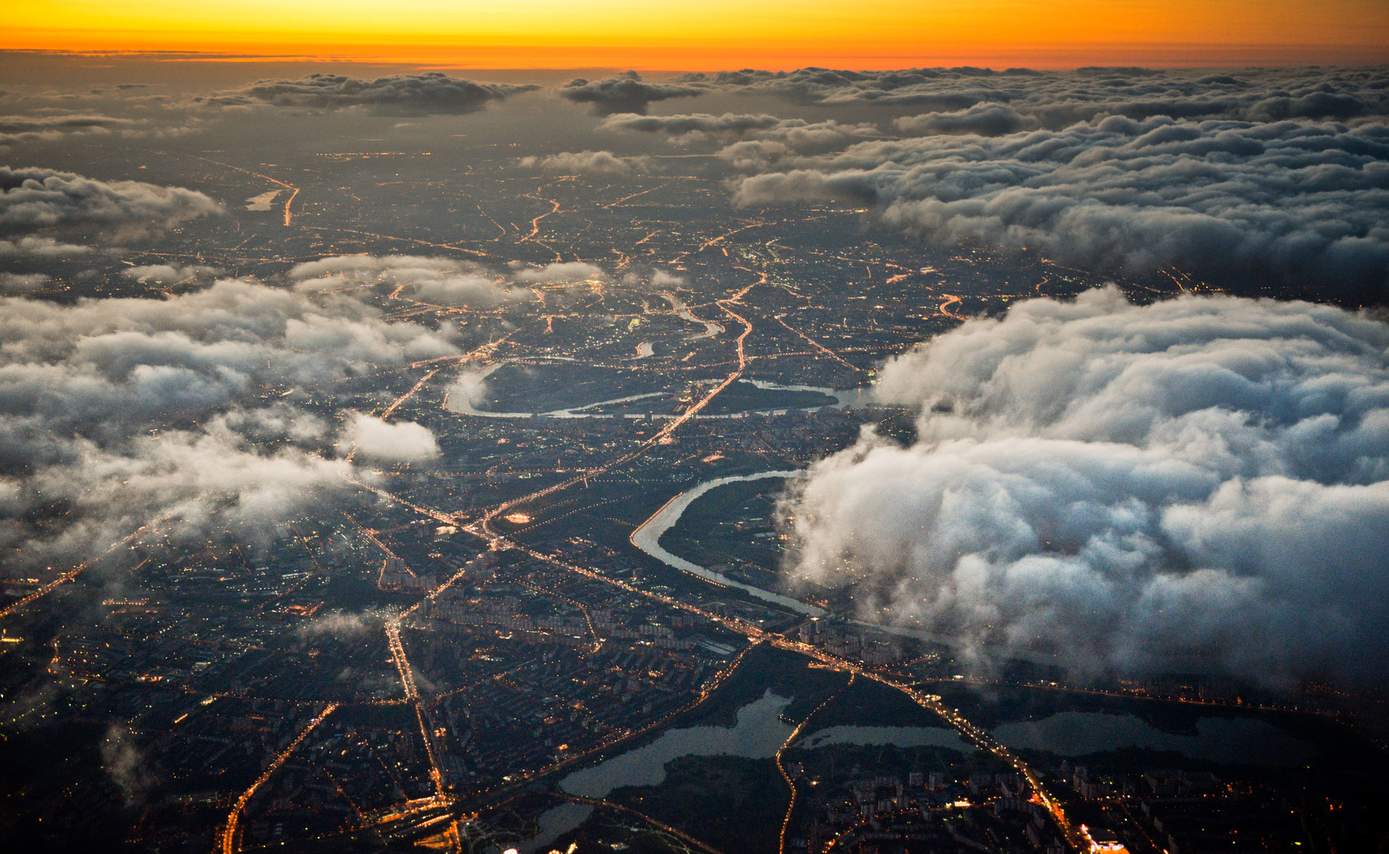
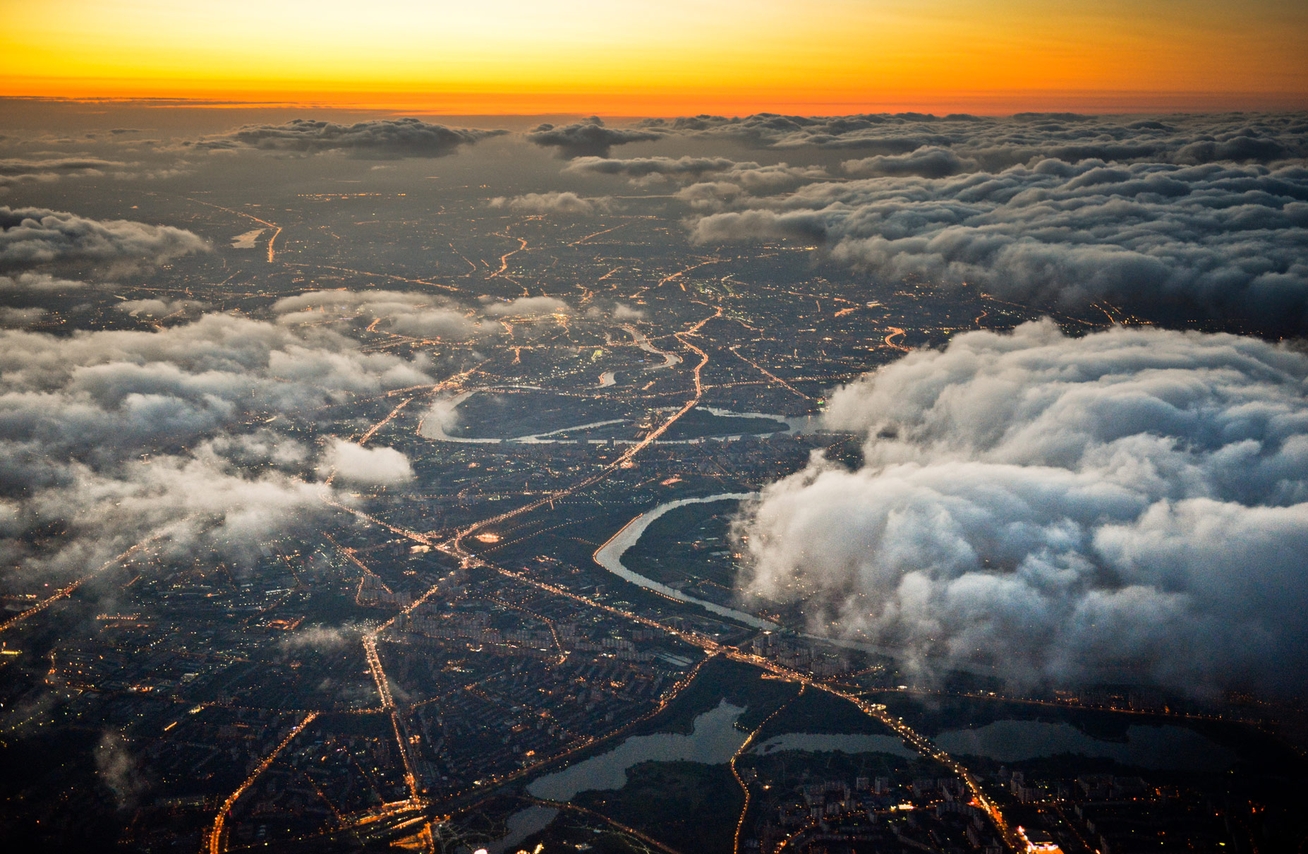
fix full page  background

diff --git a/index.html b/index.html
@@ -98,7 +98,7 @@
     <div id="about" class="section__wrap about__wrap">
       <section class="section about">
         <h1><a name="about">Who&nbsp;we&nbsp;are</a></h1>
-        <p><strong>FLY2RUSSIA</strong> is&nbsp;young independent aviation consultancy company.</p>
+        <p><strong>FLY2RUSSIA</strong> is&nbsp;a&nbsp;young independent aviation consultancy company.</p>
         <p><strong>Our mission</strong> is&nbsp;to&nbsp;open Russian and CIS aviation markets for&nbsp;our Partners.</p>
         <p>Our small team is&nbsp;a&nbsp;group of&nbsp;experienced aviation professionals. </p>
         <p>We know Russian and CIS markets, and we&nbsp;know how to&nbsp;promote and implement products of&nbsp;our Partners in&nbsp;the market. </p> 

diff --git a/css/ie.css b/css/ie.css
@@ -130,10 +130,10 @@ body {
 .bg {
   position: fixed;
   z-index: 0;
-  top: -50%;
-  left: -50%;
-  width: 200%;
-  height: 200%;
+  top: -42%;
+  left: -42%;
+  width: 184%;
+  height: 184%;
 }
 /* line 73, ../scss/_site.scss */
 .bg img {
@@ -143,6 +143,14 @@ body {
   right: 0;
   bottom: 0;
   margin: auto;
+  width: 100%;
+  height: auto;
+}
+
+/* line 88, ../scss/_site.scss */
+.wrap {
+  position: relative;
+  z-index: 1;
 }
 
 /*::-moz-selection { background: #212f3d; color: #fff; text-shadow: none; }

diff --git a/css/style.css b/css/style.css
@@ -135,10 +135,10 @@ body {
 .bg {
   position: fixed;
   z-index: 0;
-  top: -50%;
-  left: -50%;
-  width: 200%;
-  height: 200%;
+  top: -42%;
+  left: -42%;
+  width: 184%;
+  height: 184%;
 }
 /* line 73, ../scss/_site.scss */
 .bg img {
@@ -148,6 +148,14 @@ body {
   right: 0;
   bottom: 0;
   margin: auto;
+  width: 100%;
+  height: auto;
+}
+
+/* line 88, ../scss/_site.scss */
+.wrap {
+  position: relative;
+  z-index: 1;
 }
 
 /*::-moz-selection { background: #212f3d; color: #fff; text-shadow: none; }

diff --git a/css/ipad.css b/css/ipad.css
@@ -125,10 +125,10 @@ body {
 .bg {
   position: fixed;
   z-index: 0;
-  top: -50%;
-  left: -50%;
-  width: 200%;
-  height: 200%;
+  top: -42%;
+  left: -42%;
+  width: 184%;
+  height: 184%;
 }
 /* line 73, ../scss/_site.scss */
 .bg img {
@@ -138,6 +138,14 @@ body {
   right: 0;
   bottom: 0;
   margin: auto;
+  width: 100%;
+  height: auto;
+}
+
+/* line 88, ../scss/_site.scss */
+.wrap {
+  position: relative;
+  z-index: 1;
 }
 
 /* line 16, ../scss/ipad.scss */

diff --git a/scss/_site.scss b/scss/_site.scss
@@ -65,10 +65,10 @@ body {
 
   z-index: 0;
 
-  top: -50%; 
-  left: -50%; 
-  width: 200%; 
-  height: 200%;
+  top: -42%; 
+  left: -42%; 
+  width: 184%; 
+  height: 184%;
 
   img {
     position: absolute; 
@@ -77,8 +77,15 @@ body {
     right: 0; 
     bottom: 0; 
     margin: auto; 
+    width: 100%;
+    height: auto;
+  
     //min-width: 50%;
     //min-height: 50%;
   }
 }
 
+.wrap {
+  position: relative;
+  z-index:1;
+}
